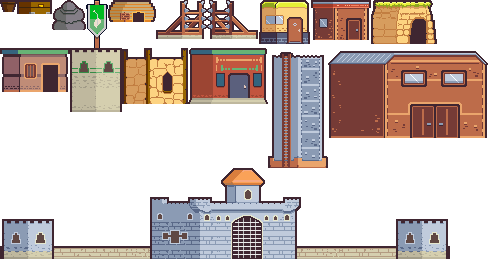
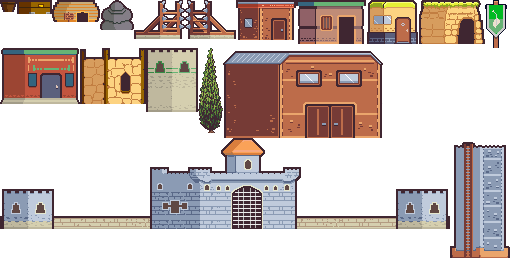
BG Trees
Added BG trees for MaM.

diff --git a/src/bg/VillageBuilder.js b/src/bg/VillageBuilder.js
@@ -3,34 +3,7 @@ import Vars from "../util/Vars";
 
 export default class VillageBuilder extends BaseBuilder {
 
-  addBuildingsForWave(layer, currentWave) {
-
-    const data = this.scene.cache.json.get('bg_village');
-
-    const buildings = data.buildings;
-    const banners = data.banners;
-    const buildings_wave = buildings.filter(data => data.wave === currentWave);
-    const banners_wave = banners.filter(data => data.wave === currentWave);
-
-    const center = this.getCenterX();
-
-    for (let b_data of buildings_wave) {
-      const image = this.add(center + b_data.x, Vars.GROUND_TOP, b_data.frame);
-      layer.add(image);
-    }
-
-    for (let b_data of banners_wave) {
-      let sprite = this.addAnimated(center + b_data.x, Vars.GROUND_TOP, Vars.SHEET_MAM_BANNER, b_data.animation);
-      layer.add(sprite);
-    }
-  }
- 
-  loadBuildings(layer, currentWave) {
-    for (let i = 0; i <= currentWave; i++) {
-      this.addBuildingsForWave(layer, i);
-    }
-  }
-
+  /** Generic function to load all buildings in the json data */
   loadVillage(json_data, layer) {
     const startX = 0;
     for (let data of json_data) {
@@ -42,7 +15,6 @@ export default class VillageBuilder extends BaseBuilder {
 
   /** Moon at Midnight */
   loadMaM(layer) {
-    
     const villageBuildings = this.scene.cache.json.get('json_mam');
     this.loadVillage(villageBuildings, layer);
     //  Load data from dB to check against upgraded buildings

diff --git a/src/scenes/PlayScene.js b/src/scenes/PlayScene.js
@@ -2,6 +2,7 @@ import { Scene } from "phaser";
 import TilemapBuilder from "../bg/TilemapBuilder";
 import Scenery from "../bg/Scenery";
 import VillageBuilder from "../bg/VillageBuilder";
+import MapBuilder from "../bg/MapBuilder";
 
 export class PlayScene extends Scene {
 
@@ -25,6 +26,8 @@ export class PlayScene extends Scene {
 
     const sceneryLayer = this.add.layer();
     const tilemapLayer = this.add.layer();
+
+    const bgLayer = this.add.layer();
     const buildingsLayer = this.add.layer();
 
     // Background scene
@@ -37,17 +40,19 @@ export class PlayScene extends Scene {
     const tmBuilder = new TilemapBuilder(this);
     tmBuilder.buildTilemap(tilemapLayer);
 
-    //  Add trees in BG
     //  Add bushes + fruit trees + veg in FG
+    
+    //  Add trees in BG
 
-    //  Buildings
+    const mapBuilder = new MapBuilder(this);
+    mapBuilder.loadMaM(bgLayer);
 
-    //  NEXT - Add the other villages
+    //  Villages
 
     const builder1 = new VillageBuilder(this);
-    //builder1.loadMaM(buildingsLayer);
+    builder1.loadMaM(buildingsLayer);
     //builder1.loadGreen(buildingsLayer);
-    builder1.loadStorm(buildingsLayer);
+    //builder1.loadStorm(buildingsLayer);
 
     //  Temp
 

diff --git a/src/bg/MapBuilder.js b/src/bg/MapBuilder.js
@@ -1,0 +1,22 @@
+import BaseBuilder from "../classes/BaseBuilder";
+import Vars from "../util/Vars";
+
+export default class MapBuilder extends BaseBuilder {
+
+  /** Generic function to load all buildings in the json data */
+  loadJSON(json_data, layer) {
+    const startX = 0;
+    for (let data of json_data) {
+      const image = this.add(startX + data.x, Vars.GROUND_TOP, data.frame);
+      image.setDepth(data.depth);
+      layer.add(image);
+    }
+  }
+
+  /** Moon at Midnight */
+  loadMaM(layer) {
+    const villageBuildings = this.scene.cache.json.get('json_mam_bg');
+    this.loadJSON(villageBuildings, layer);
+  }
+  
+}

diff --git a/src/bg/TilemapBuilder.js b/src/bg/TilemapBuilder.js
@@ -12,9 +12,10 @@ export default class TilemapBuilder {
     const bounds = camera.getBounds();
     const FLOOR_Y = 195;
 
-    const tmX = 32;
+    const tmX = -16;
     const tmY = FLOOR_Y;
-    const tmWidth = Math.floor((bounds.width - tmX * 2) / 16);
+    //const tmWidth = Math.floor((bounds.width - tmX * 2) / 16);
+    const tmWidth = Math.floor((bounds.width + 32) / 16);
 
     const tm = this.scene.make.tilemap({tileWidth: 16, tileHeight: 16, width: tmWidth, height: 6});
     const tileset = tm.addTilesetImage('tilemap');

diff --git a/src/preloader.js b/src/preloader.js
@@ -30,6 +30,9 @@ export class Preloader extends Phaser.Scene {
         this.load.json('json_storm', 'json/villages.json', 'storm');
         this.load.json('json_green', 'json/villages.json', 'green');
 
+        this.load.json('json_mam_bg', 'json/bg_trees.json', 'bg.mam');
+        this.load.json('json_mam_fg', 'json/bg_trees.json', 'fg.mam');
+
         //  All below came with the builder - delete
 
         this.load.image("floor");
